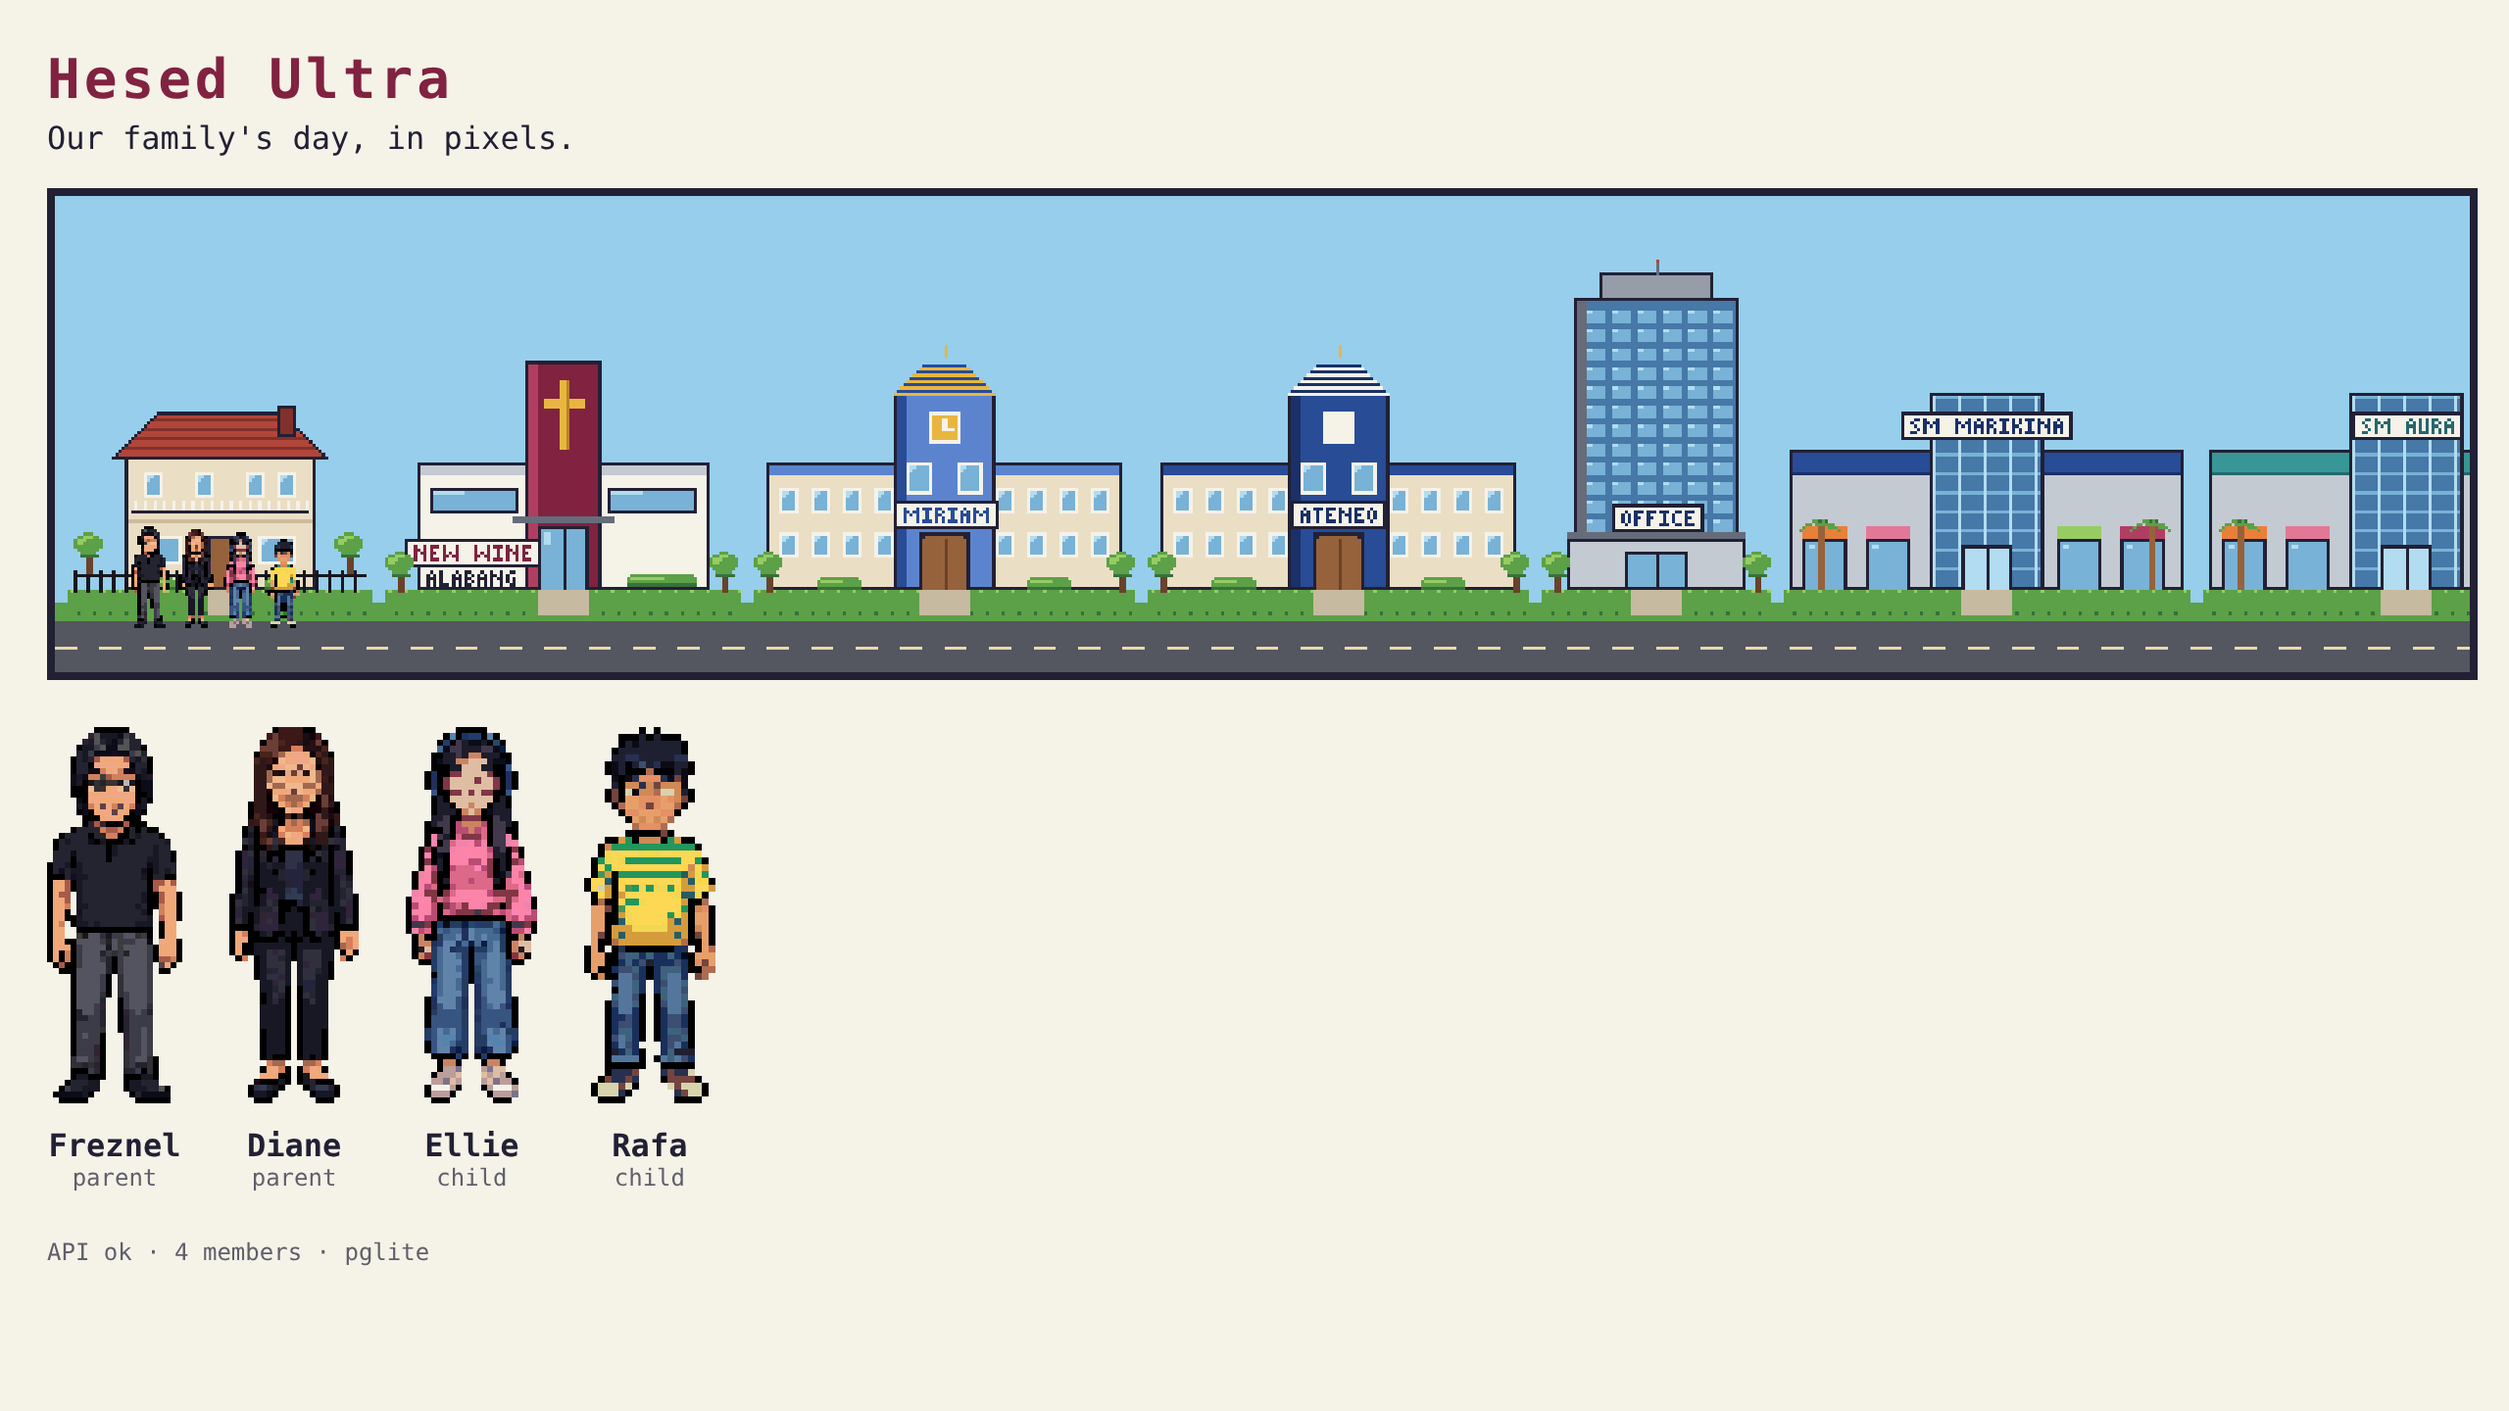
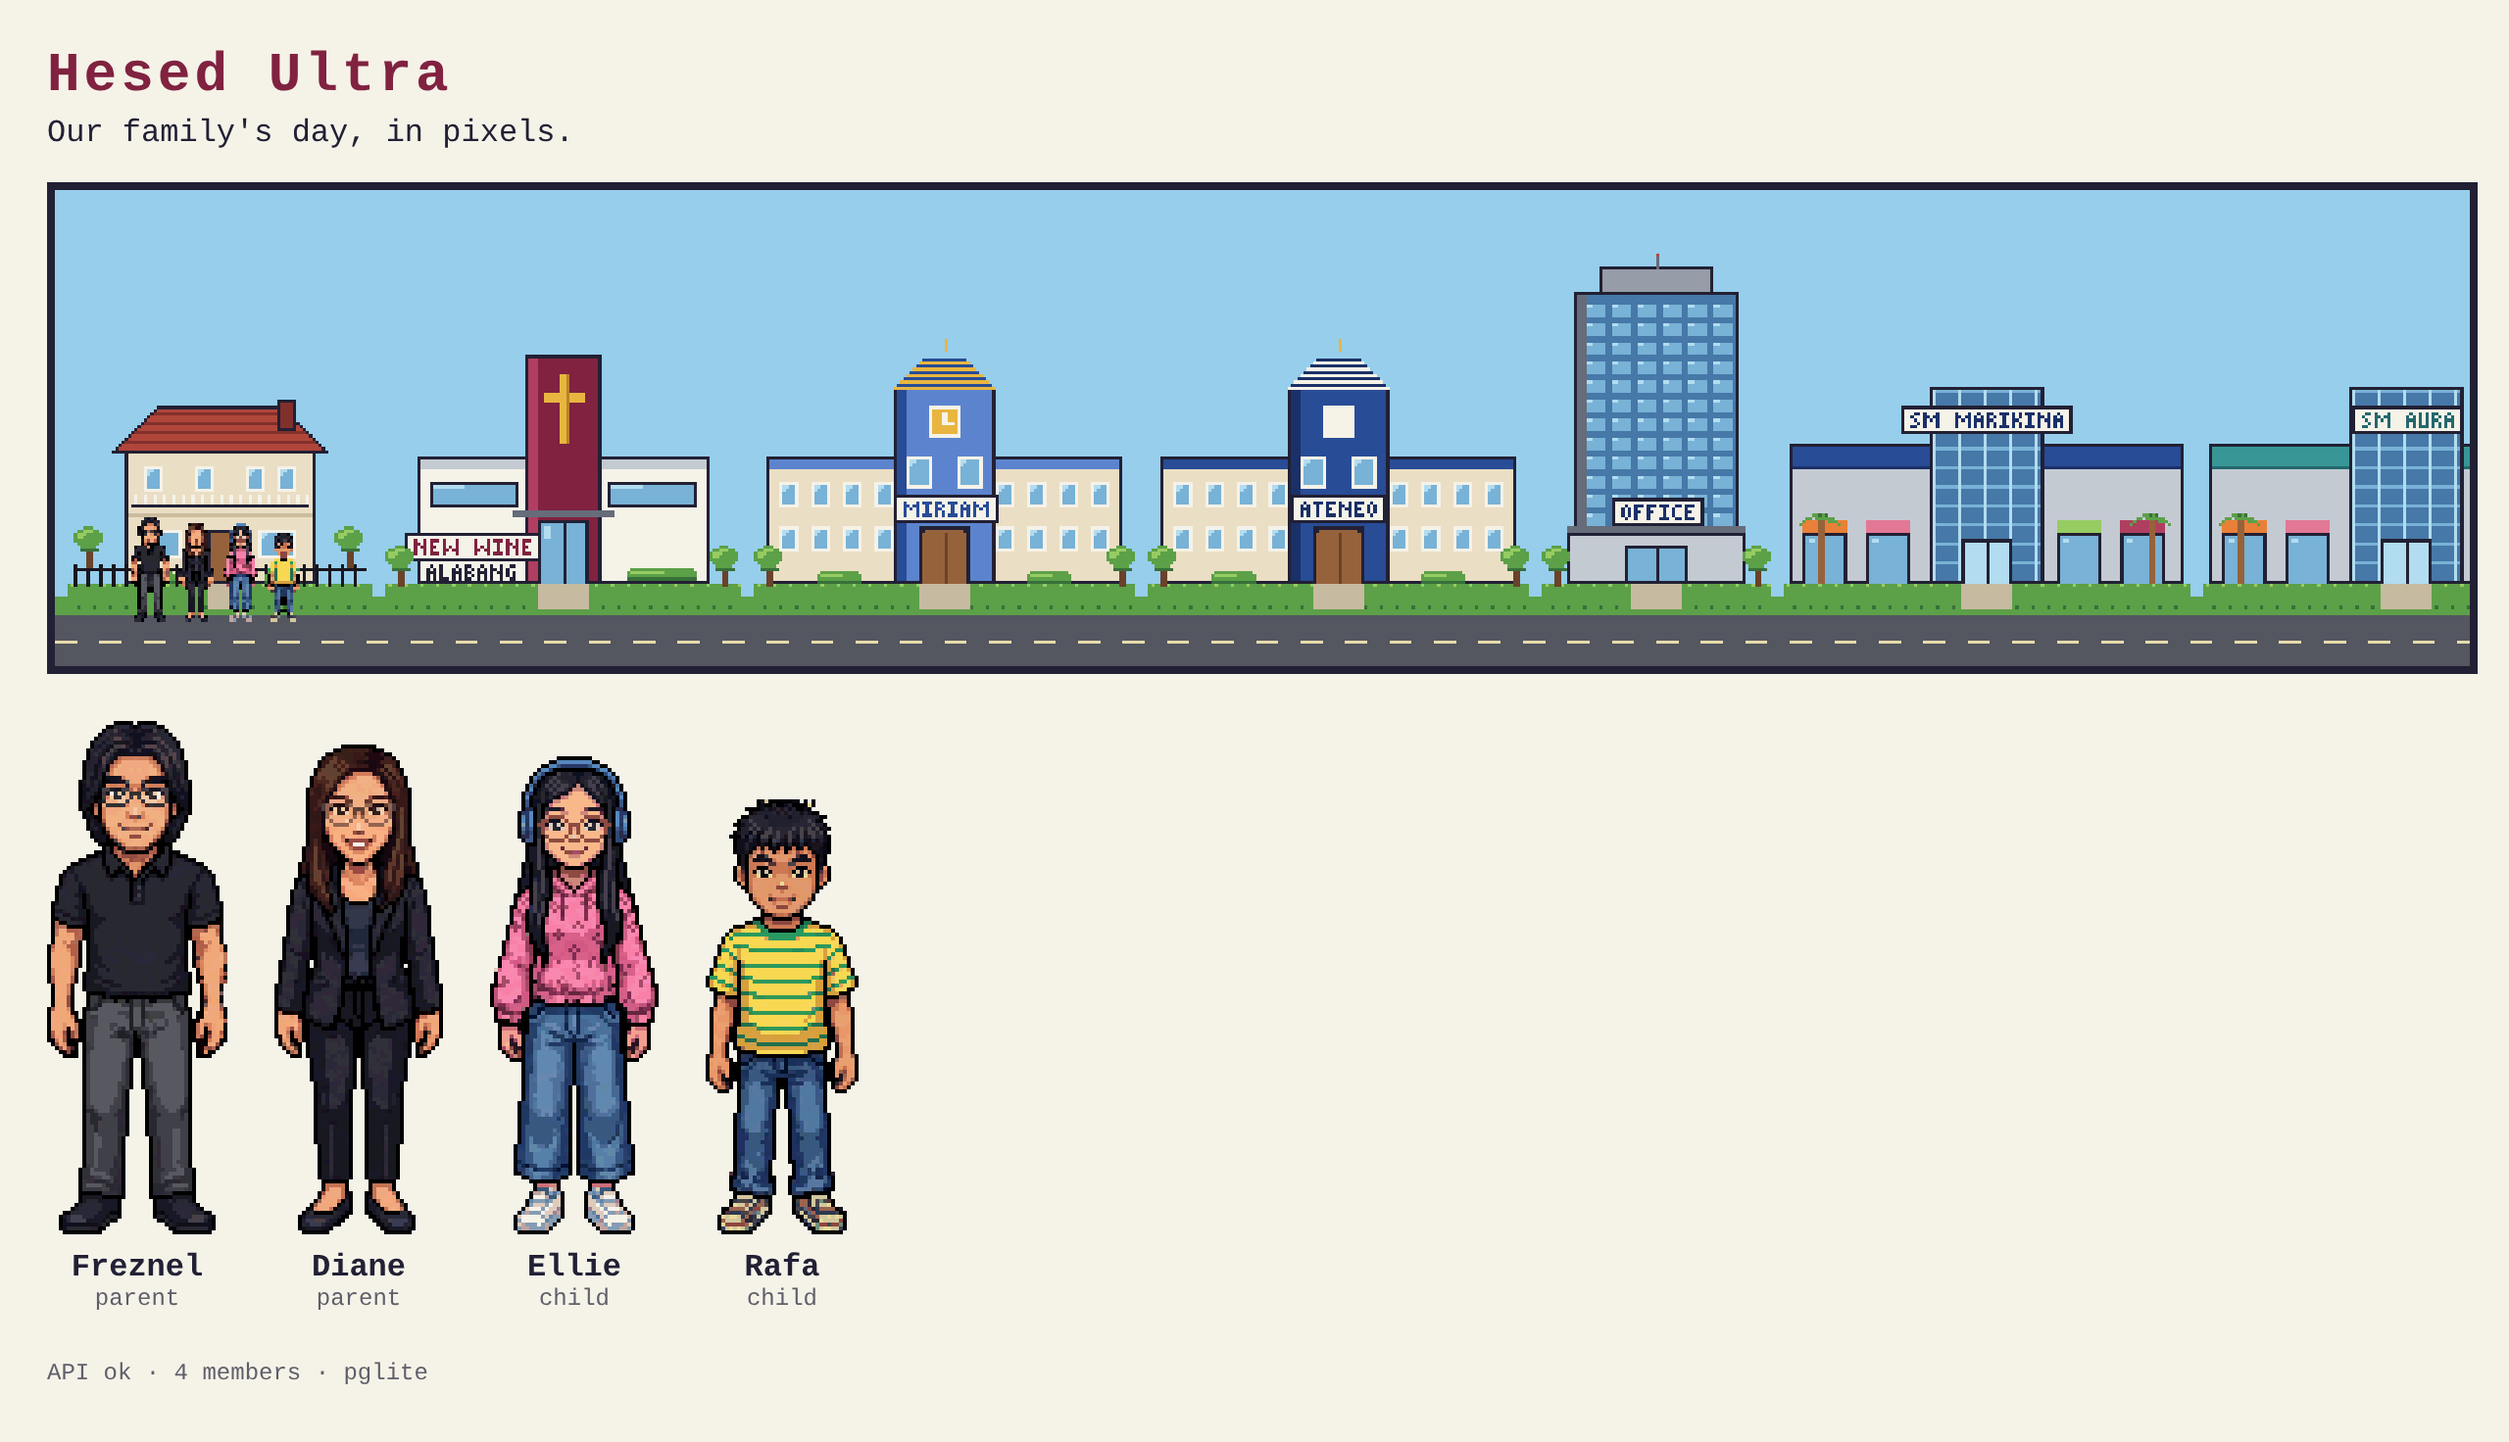
Fix family sprite conversion: use the art's true pixel size and grid
The first pass sampled at 17px per art pixel; the art is ~8.25px, so half the
detail (glasses, eyes, headphones, shirt stripes) was lost. Sprites are now
about 2x larger and match the reference.

Claude-Session: https://claude.ai/code/session_01CRQjfhceu3QczgMUifvpHt

diff --git a/src/scene/Town.tsx b/src/scene/Town.tsx
@@ -38,11 +38,11 @@ export default function Town() {
         ctx.drawImage(img, x, GROUND + 4 - img.height);
         x += img.width + 4;
       });
-      // family at half size in front of the house (placeholder until small walk sprites exist)
+      // family at quarter size in front of the house (placeholder until small walk sprites exist)
       let fx = houseX + 20;
       family.forEach((img, i) => {
-        const w = img ? Math.round(img.width / 2) : 10;
-        const h = img ? Math.round(img.height / 2) : 30;
+        const w = img ? Math.round(img.width / 4) : 10;
+        const h = img ? Math.round(img.height / 4) : 30;
         if (img) ctx.drawImage(img, fx, GROUND + 8 - h, w, h);
         else {
           ctx.fillStyle = MEMBERS[i].color;

diff --git a/src/App.tsx b/src/App.tsx
@@ -24,7 +24,13 @@ export default function App() {
       <section className="family">
         {members.map((m) => (
           <figure key={m.id} className="member">
-            <img className="pixel" src={`/sprites/${m.sprite}.png`} alt={m.name} />
+            <img
+              className="pixel"
+              src={`/sprites/${m.sprite}.png`}
+              alt={m.name}
+              // show at exactly 2x so every art pixel stays square
+              onLoad={(e) => (e.currentTarget.style.width = `${e.currentTarget.naturalWidth * 2}px`)}
+            />
             <figcaption>
               {m.name}
               <span className="role">{m.role}</span>

diff --git a/src/styles.css b/src/styles.css
@@ -14,7 +14,7 @@ h1 { margin: 0; font-size: 28px; letter-spacing: 2px; color: var(--accent); }
 .town { width: 100%; height: auto; border: 4px solid var(--ink); display: block; }
 .family { display: flex; gap: 24px; margin: 24px 0; flex-wrap: wrap; }
 .member { margin: 0; text-align: center; }
-.member img { height: 192px; }
+.member { display: flex; flex-direction: column; justify-content: flex-end; }
 .member figcaption { margin-top: 8px; font-weight: bold; }
 .role { display: block; font-weight: normal; font-size: 12px; opacity: 0.7; }
 .status { font-size: 12px; opacity: 0.7; }

diff --git a/tools/prep_characters.py b/tools/prep_characters.py
@@ -8,7 +8,7 @@ Freznel, Diane, Rafa, Ellie) and writes, per member:
   assets/characters/preview/<name>@4x.png  enlarged for checking
 
 Steps: find each figure by its non-white columns, cut out the white
-background, shrink by the art's own pixel size with a per-block majority
+background, shrink by the art's own pixel size (about 8.25 image px per art pixel, grid position auto-detected) with a per-block majority
 colour (keeps edges crisp, unlike smooth resizing), then reduce to a small
 palette to remove JPG noise.
 """
@@ -20,7 +20,7 @@ ROOT = Path(__file__).resolve().parent.parent
 SRC = ROOT / "assets" / "characters" / "reference" / "family-front.jpg"
 OUT = ROOT / "assets" / "characters"
 NAMES = ["freznel", "diane", "rafa", "ellie"]
-BLOCK = 17          # size of one art pixel in the reference image, measured by eye
+BLOCK = 8.25        # size of one art pixel in the reference image (measured from edge spacing)
 WHITE = 236         # anything brighter on all channels counts as background
 
 
@@ -43,31 +43,52 @@ def figure_spans(img):
     return spans
 
 
+def grid_phase(gray, axis):
+    """Find where the art's pixel grid starts, from where colour edges fall modulo BLOCK."""
+    px, (w, h) = gray.load(), gray.size
+    buckets = Counter()
+    if axis == "x":
+        for y in range(0, h, 5):
+            for x in range(1, w):
+                if abs(px[x, y] - px[x - 1, y]) > 40:
+                    buckets[round((x % BLOCK) * 4) / 4] += 1
+    else:
+        for x in range(0, w, 5):
+            for y in range(1, h):
+                if abs(px[x, y] - px[x, y - 1]) > 40:
+                    buckets[round((y % BLOCK) * 4) / 4] += 1
+    return buckets.most_common(1)[0][0] if buckets else 0.0
+
+
 def shrink(crop):
+    gray = crop.convert("L")
+    ox, oy = grid_phase(gray, "x"), grid_phase(gray, "y")
     w, h = crop.size
-    out = Image.new("RGBA", (w // BLOCK + 1, h // BLOCK + 1), (0, 0, 0, 0))
+    cols, rows = int((w - ox) / BLOCK), int((h - oy) / BLOCK)
+    out = Image.new("RGBA", (cols, rows), (0, 0, 0, 0))
     src, dst = crop.load(), out.load()
-    for by in range(0, h, BLOCK):
-        for bx in range(0, w, BLOCK):
-            votes = Counter()
-            bg = 0
-            # sample the middle of the block to avoid edge bleed
-            for y in range(by + 4, min(by + BLOCK - 4, h)):
-                for x in range(bx + 4, min(bx + BLOCK - 4, w)):
+    m = BLOCK * 0.3  # sample the middle of each block to avoid edge bleed
+    for r in range(rows):
+        for c in range(cols):
+            x0, y0 = ox + c * BLOCK, oy + r * BLOCK
+            votes, bg, total = Counter(), 0, 0
+            for y in range(int(y0 + m), int(y0 + BLOCK - m) + 1):
+                for x in range(int(x0 + m), int(x0 + BLOCK - m) + 1):
+                    if x >= w or y >= h:
+                        continue
                     p = src[x, y]
+                    total += 1
                     if is_bg(p):
                         bg += 1
                     else:
-                        votes[(p[0] // 12 * 12, p[1] // 12 * 12, p[2] // 12 * 12)] += 1
-            total = bg + sum(votes.values())
-            if total and bg < total * 0.5 and votes:
-                c = votes.most_common(1)[0][0]
-                dst[bx // BLOCK, by // BLOCK] = (*c, 255)
+                        votes[(p[0] // 8 * 8, p[1] // 8 * 8, p[2] // 8 * 8)] += 1
+            if votes and bg < total * 0.5:
+                dst[c, r] = (*votes.most_common(1)[0][0], 255)
     bbox = out.getbbox()
     return out.crop(bbox) if bbox else out
 
 
-def reduce_palette(img, colors=24):
+def reduce_palette(img, colors=64):
     alpha = img.getchannel("A")
     q = img.convert("RGB").quantize(colors=colors, method=Image.Quantize.MEDIANCUT).convert("RGBA")
     q.putalpha(alpha)

diff --git a/PLAN.md b/PLAN.md
@@ -267,9 +267,9 @@ Placeholder rectangles in each member's colour are used until the cleaned sheets
 **Places** (`tools/gen_places.py`, drawn in code, transparent PNGs in `assets/places/`, enlarged previews in `assets/places/preview/`):
 house, church (New Wine Alabang), school_miriam, school_ateneo, office, and malls: SM Marikina, SM Aura, Ayala Feliz, Up Town Center, Festival, Alabang Town Center. These are stylised impressions, not replicas, with no store logos. To change colours or details, or to add a mall to the `MALLS` list, edit the script and rerun it.
 
-**Characters** (`tools/prep_characters.py`): auto-converted from `assets/characters/reference/family-front.jpg` into native sprites, roughly 21×61 px each (`assets/characters/<name>_front.png`). Faces and Ellie's headphones need a hand touch-up in Aseprite or Piskel.
+**Characters** (`tools/prep_characters.py`): auto-converted from `assets/characters/reference/family-front.jpg` at the art's true pixel size (about 8.25 image px per art pixel) into native sprites: Freznel 46×131, Diane 43×125, Ellie 43×122, Rafa 39×111 (`assets/characters/<name>_front.png`). Glasses, faces, headphones, stripes and the hoodie pattern all survive; only a few stray pixels from JPG noise remain.
 
-**Scale:** buildings are 80–112 px tall, so on the town map the walking characters should be smaller sprites, about 24–32 px tall. Use the 60 px versions on profile and "today" cards, and portraits for dialogue and mood. The walk cycles still need to be made at the small size.
+**Scale:** buildings are 80–112 px tall, so on the town map the walking characters should be smaller sprites, about 24–32 px tall. Use the full-size (110–131 px) versions on profile and "today" cards, and portraits for dialogue and mood. The walk cycles still need to be made at the small size.
 
 ## 13. Open questions
 
